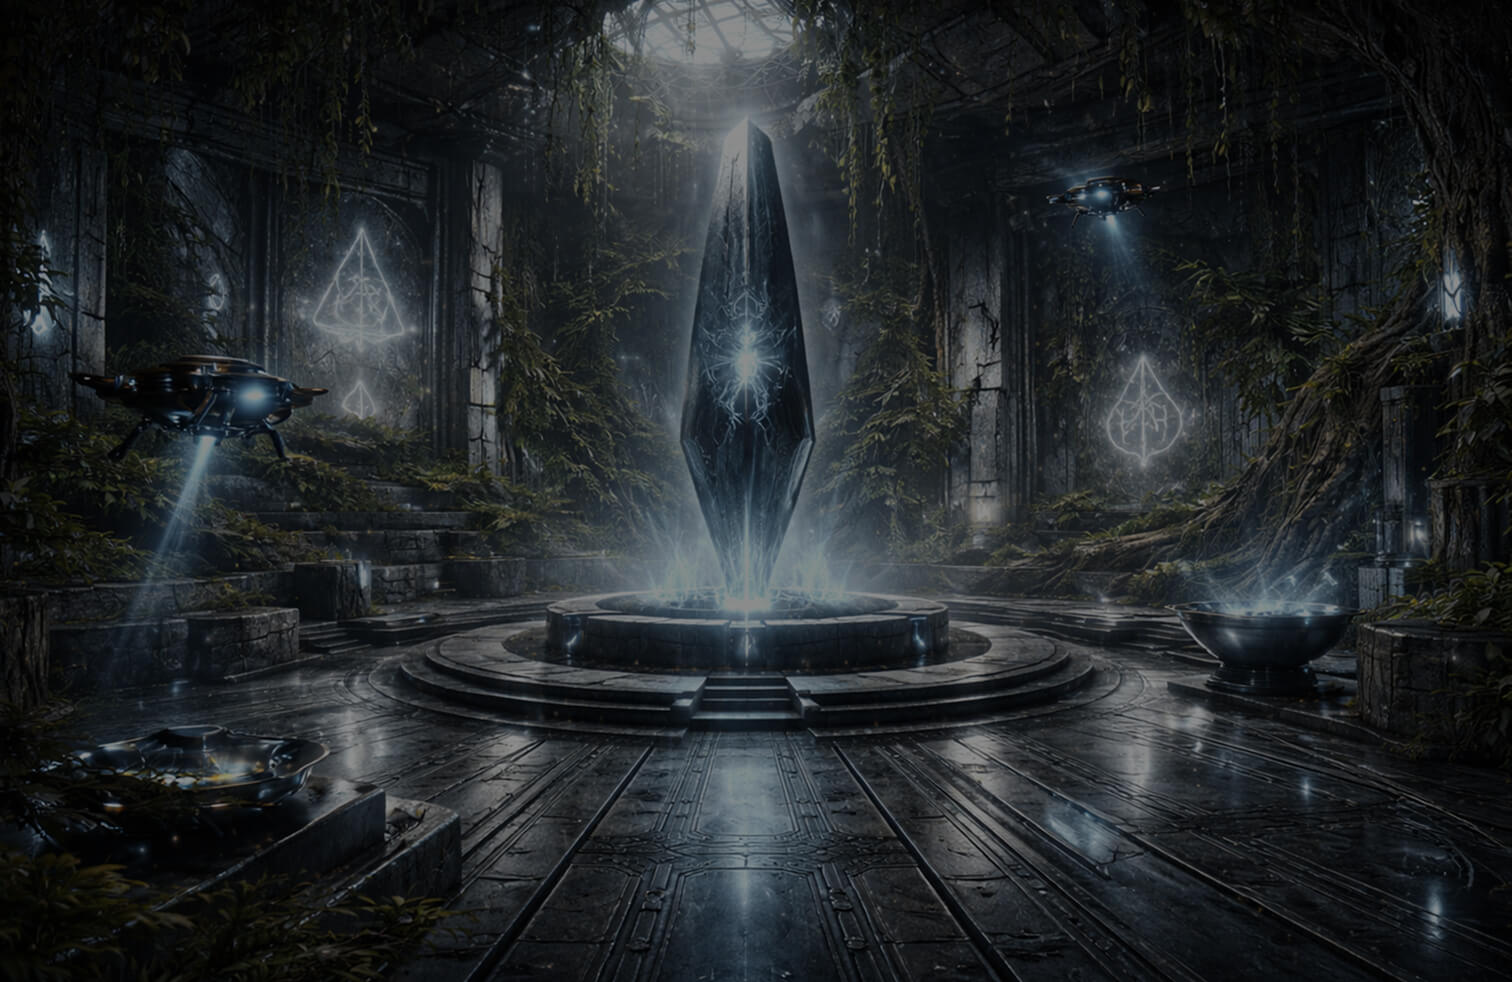
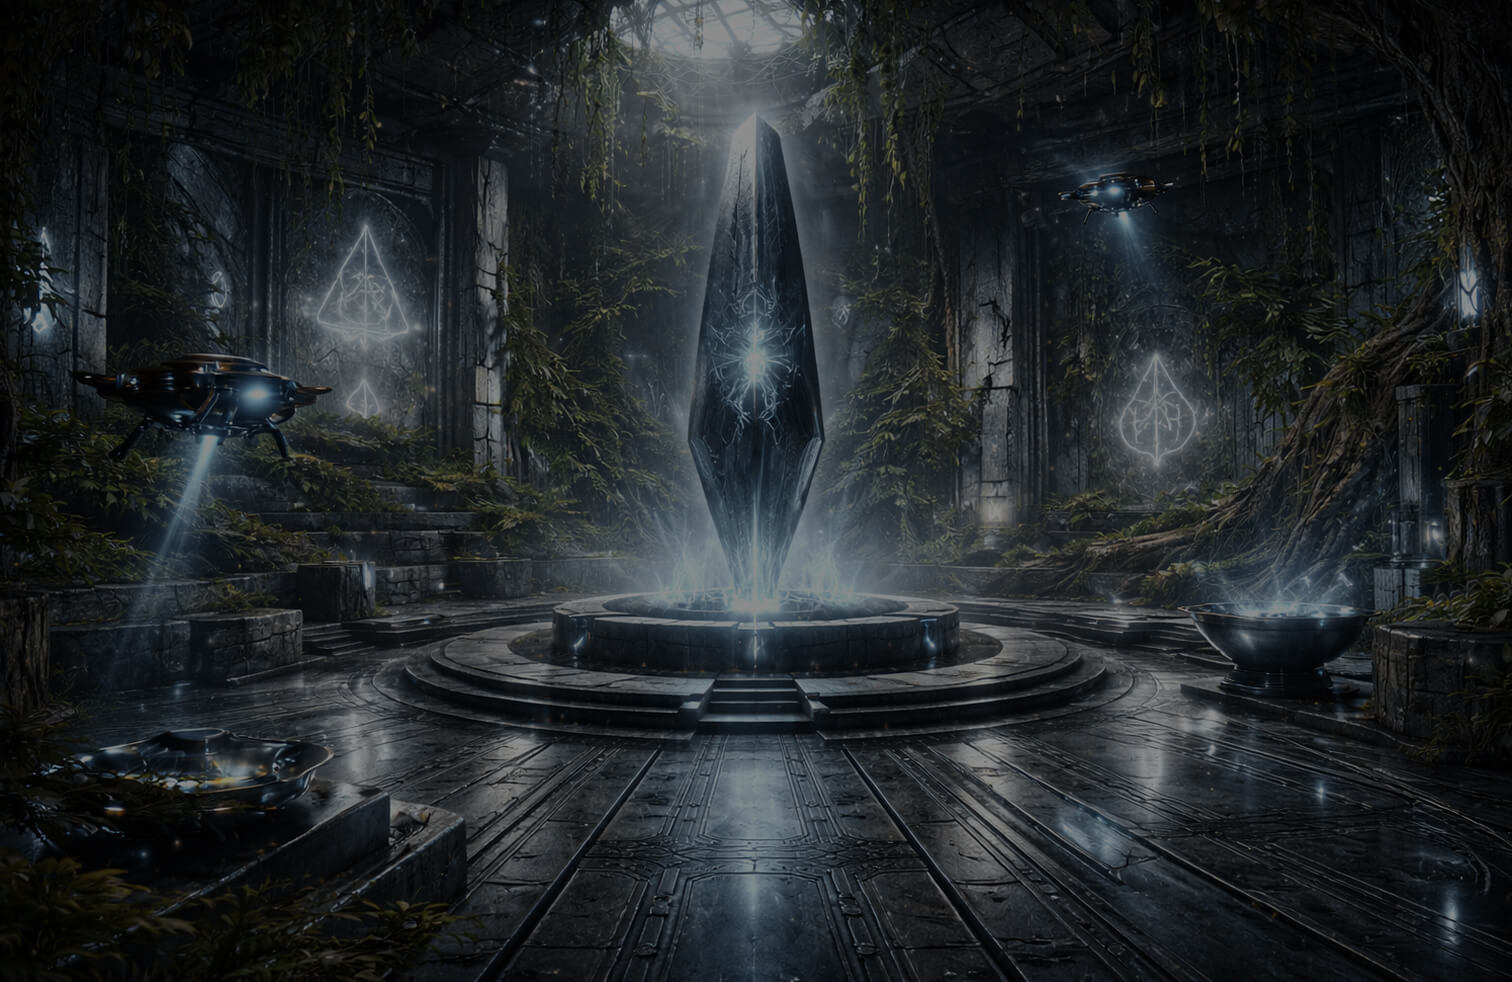
Metalroom, sass and new image that is centered

diff --git a/src/rooms/4metal/_room4metal.scss b/src/rooms/4metal/_room4metal.scss
@@ -1,1 +1,104 @@
 @use "../../sass/var";
+@use "../../sass/mixins" as mix;
+
+
+// För hela rummet
+.room4Metal {
+    display: flex;
+    justify-content: center;
+    align-items: center;
+    flex-direction: column;
+    position: relative;
+    color: var.$lightColor;
+    
+    // För innehållet i containern
+    .metalContainer { 
+        display: flex;
+        flex-direction: column;
+        align-items: center;
+        gap: 3rem;
+        
+        //Färgsignalen som börjar med rött 
+        .colorSignal { 
+            width: 70px;
+            height: 70px;
+            background: #690505; //Ändra senare
+            transform: rotate(45deg);
+            border: 1px solid var.$lightColor;
+            border-radius: var.$smallRadius; 
+        }
+    }
+
+    // Meddelande rätt/fel jobba vidare på 
+    .feedback {
+        height: 1.8rem;
+        font-size: 1.2rem;  
+    }
+
+    //Spelaren väljer färgen i dessa slots
+    .colorSlots {        
+        @include mix.glass();
+        border: 2px solid var.$lightColor;
+        border-radius: var.$smallRadius;
+        padding: 1.5rem 2rem;
+        display: flex;
+        gap: 3rem;
+    }
+
+    .colorSlot1, .colorSlot2, .colorSlot3, .colorSlot4, .colorSlot5 {  
+        @include mix.glass();  
+        border: 1px solid var.$lightColor;
+        border-radius: var.$smallRadius;
+        width: 60px;
+        height: 60px;
+        cursor: pointer;
+        transition: box-shadow 0.3s, background 0.3s, transform 0.1s;
+        transform: rotate(45deg);
+
+        //Tydlig highlight på vald slot
+        &.is-active { 
+            outline: 4px solid #ffffff; 
+            outline-offset: 4px; 
+            transform: scale(1.1); 
+            box-shadow: 0 0 20px rgba(255,255,255,0.8); 
+        }
+
+        //Färger som är valbara i slotsen INTE FÄRDIGA ÄNNU, BARA FÖR TESTNING
+        .iron {
+            background: #8a8a8a; // grå metall
+            box-shadow: 0 0 10px #8a8a8a88;
+        }
+
+       .copper {
+            background: #b87333;
+            box-shadow: 0 0 10px #b8733388;
+        }
+
+       .gold {
+            background: #d4af37;
+            box-shadow: 0 0 10px #d4af3788;
+        }
+
+        .silver {
+            background: #c0c0c0;
+            box-shadow: 0 0 10px #c0c0c088;
+        }
+
+        .steel {
+            background: #708090;
+            box-shadow: 0 0 10px #70809088;
+        }
+    } 
+}
+
+
+
+
+
+
+
+
+
+
+
+

diff --git a/index.html b/index.html
@@ -529,10 +529,16 @@
       <!--------------------------- Metal Room ---------------------------->
       <!------------------------------------------------------------------->
       <section id="room4Metal" class="room4Metal hidden">
+        
         <div class="metalContainer">
-          <div id="colorSignal"></div>
-          <div id="feedback"></div>
-
+        
+          <!-- Färgsignal -->
+          <div id="colorSignal" class="colorSignal"></div>
+          
+          <!-- Meddelande rätt/fel -->
+          <div id="feedback" class="feedback"></div>
+          
+          <!-- Slots för färger -->
           <div class="colorSlots">
             <div class="colorSlot1"></div>
             <div class="colorSlot2"></div>
@@ -540,10 +546,24 @@
             <div class="colorSlot4"></div>
             <div class="colorSlot5"></div>
           </div>
+          
+          <!-- Sekvens och misstagsräknare -->
+          <div class="inRoombar" aria-label="Room status">
+            <!-- Sekvens -->
+             <div class="inRoombarProgress" aria-label="Level progress"> 
+              <span>Sequence:</span>
+              <span id="levelText">1/3</span>
+            </div>
+            <!-- Misstag -->
+            <div class="inroomBarMistakes" aria-label="Mistakes">
+              <span>Mistakes:</span> 
+              <span id="mistakesText">0</span>
+            </div>
+          </div>
         </div>
 
-        <div class="roomDesc" id=""></div>
-        <!--room description from json-->
+        <!-- Innehåll från JSON-->
+        <div class="roomDesc"></div> 
       </section>
 
       <!------------------------------------------------------------------->

diff --git a/src/rooms/4metal/room4metal.ts b/src/rooms/4metal/room4metal.ts
@@ -36,4 +36,6 @@ export function room4metalFunc() {
   renderRoomDesc(metalSection, dataJSON.room4metal.desc);  // Renderar rummets beskrivning från JSON -> <div id="roomdesc">
 
   console.log("Hello from the metal room"); // Loggar ett meddelande i konsolen för att bekräfta att funktionen körs
+
+  
 }
